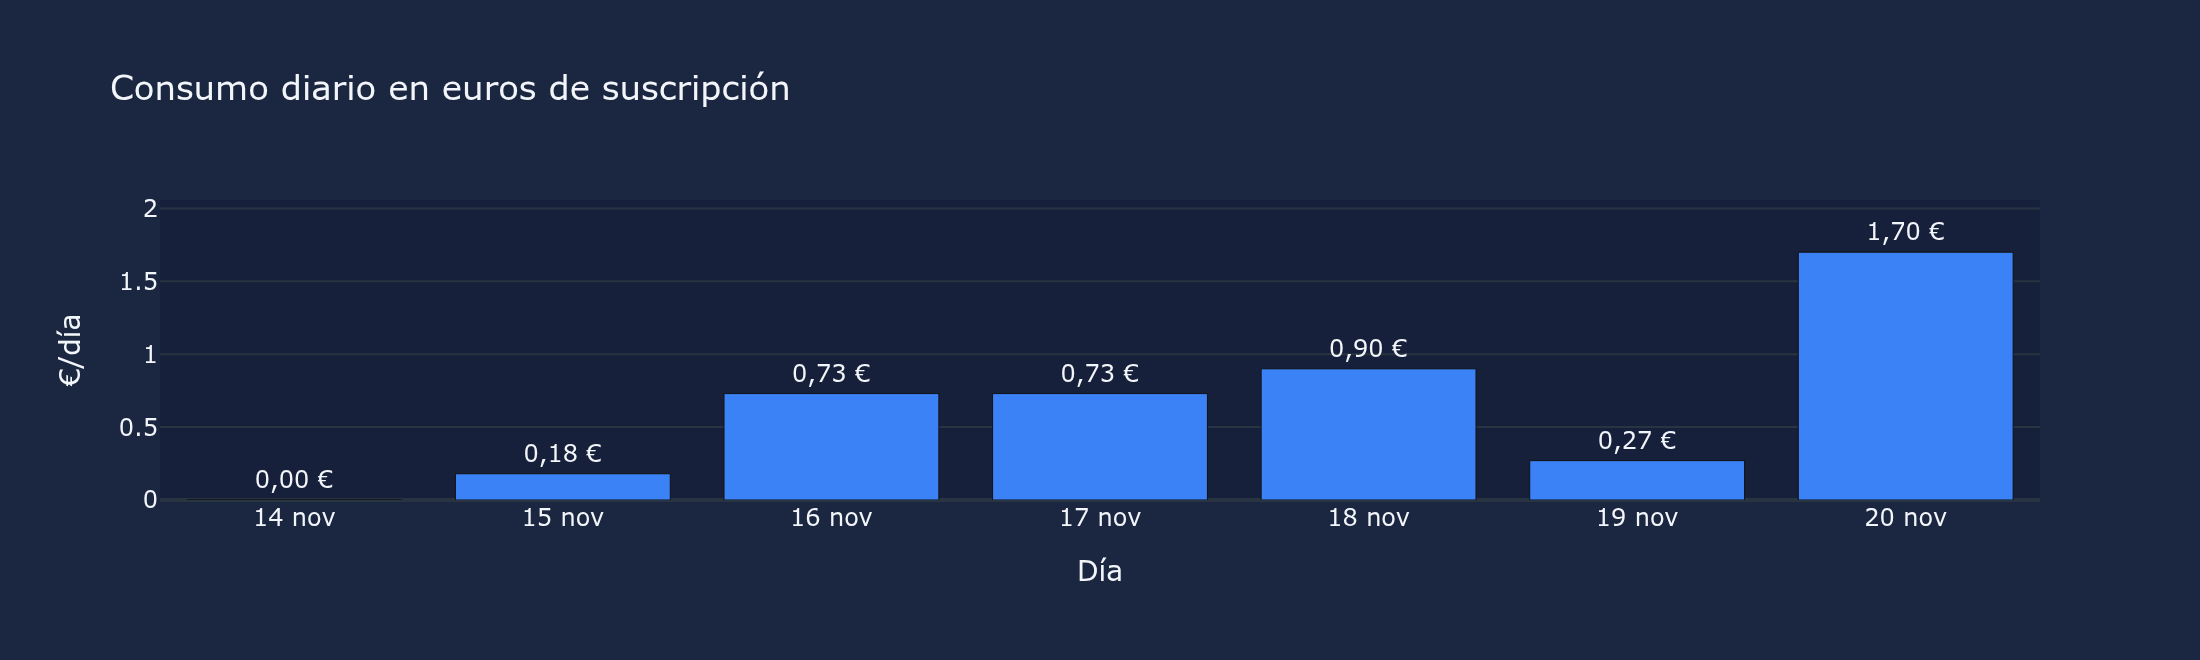
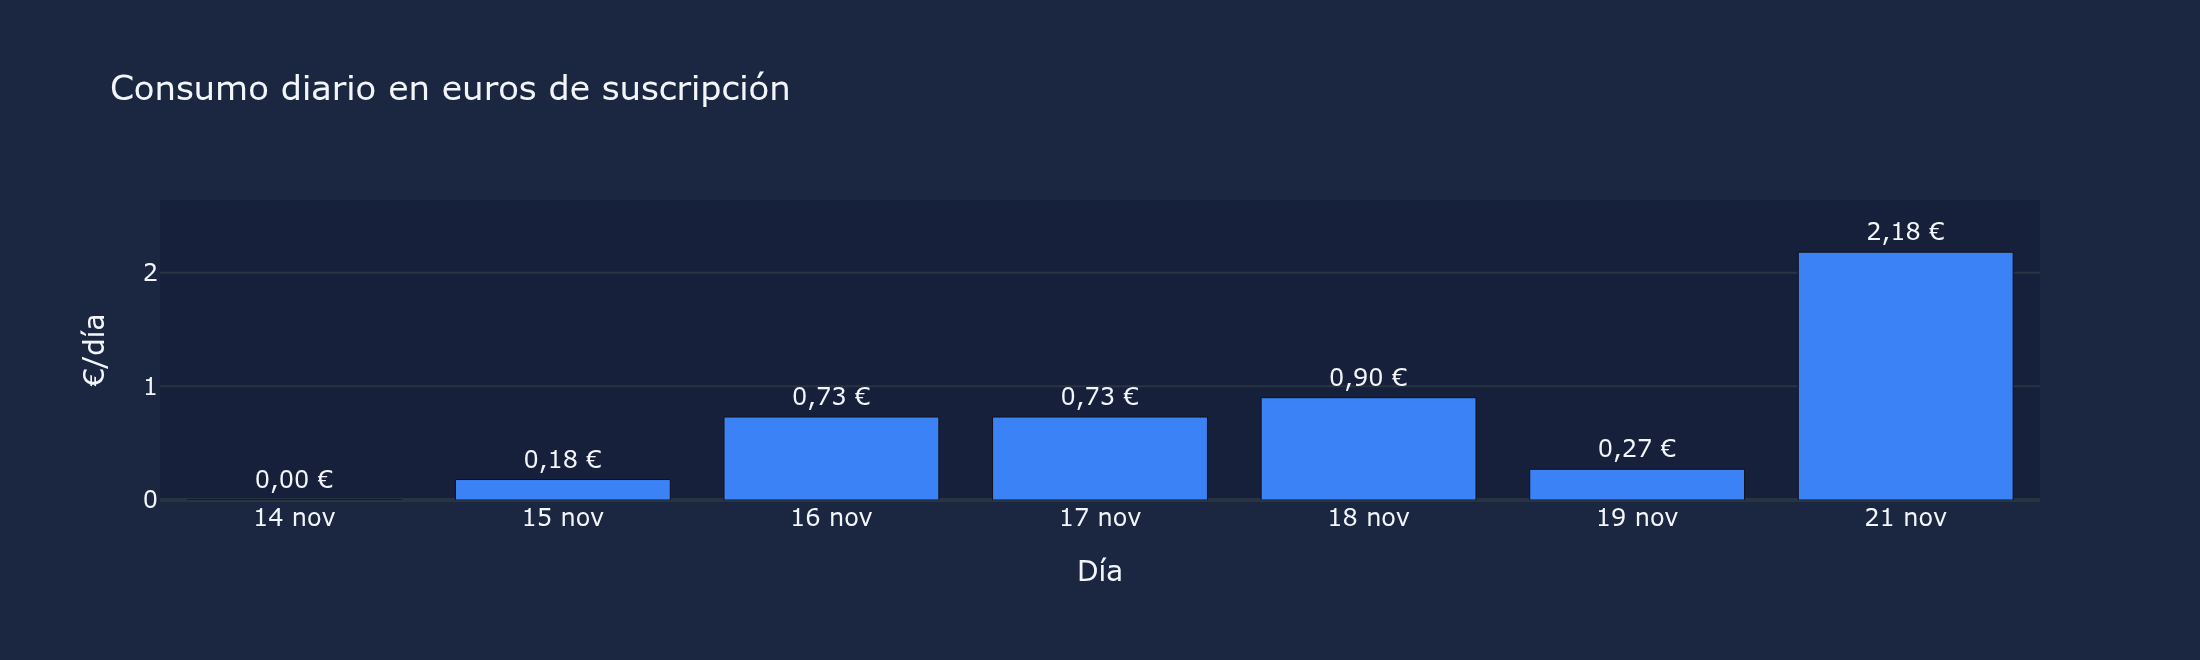
chore(accounting): refresh charts and board after the closing round
Charts regenerated from live data by build_static_site.py. Board carries the
security round: the credential rule, the three defect classes CONTA found,
and the decision that the okf.py guard is ours, not the harness's.

diff --git a/docs/accounting/index.html b/docs/accounting/index.html
@@ -4,12 +4,12 @@ type: Dashboard Page
 title: "CONTA — cuota, coste y financiación (vista estática)"
 description: "Versión estática publicable del dashboard: datos reales del ciclo, gráficos como imágenes, sin JavaScript ni CDN."
 status: verified
-generated: 2026-11-20T23:04:19+01:00
+generated: 2026-11-21T01:29:01+01:00
 source:
   - "usage.db (tokens por día y modelo, registrado del proveedor)"
   - "read_quota() sobre la API de suscripción"
   - "journalctl --user -u mistral-gateway (serie de allowance)"
-verified: 2026-11-20
+verified: 2026-11-21
 stale_after: 2026-12-01
 ---
 -->
@@ -42,13 +42,13 @@ stale_after: 2026-12-01
 PAYG desactivado · reset 2026-12-01 · <b>objetivo: aprovechar la cuota sin derrocharla y sin quedarse corto</b></p>
 
 <div class="kpi">
-<div><span class="lbl">Cuota usada</span><br>24,84 % = 63,34 € de 255 €<br><span class="sub">medido con read_quota()</span></div>
-<div><span class="lbl">Cuota libre</span><br>191,66 €<br><span class="sub">PAYG off: lo que sobre no se factura</span></div>
-<div><span class="lbl">Ritmo reciente</span><br>9,39 pp/día = 1,70 € suscr./día<br><span class="sub">última medición</span></div>
-<div><span class="lbl">Ritmo requerido</span><br>6,83 pp/día<br><span class="sub">para llegar al 100 % el reset</span></div>
-<div><span class="lbl">Agotamiento</span><br>8 días (0,3 meses) · se agota 3 días antes del reset<br><span class="sub">al ritmo reciente, en puntos de cuota</span></div>
+<div><span class="lbl">Cuota usada</span><br>27,46 % = 70,02 € de 255 €<br><span class="sub">medido con read_quota()</span></div>
+<div><span class="lbl">Cuota libre</span><br>184,98 €<br><span class="sub">PAYG off: lo que sobre no se factura</span></div>
+<div><span class="lbl">Ritmo reciente</span><br>12,01 pp/día = 2,18 € suscr./día<br><span class="sub">última medición</span></div>
+<div><span class="lbl">Ritmo requerido</span><br>7,25 pp/día<br><span class="sub">para llegar al 100 % el reset</span></div>
+<div><span class="lbl">Agotamiento</span><br>6 días (0,2 meses) · se agota 4 días antes del reset<br><span class="sub">al ritmo reciente, en puntos de cuota</span></div>
 <div><span class="lbl">Economía del plan</span><br>1 pp = 2,55 € de presupuesto = 0,1814 € de lo que pagas<br><span class="sub">fijo: 1,07 €/día en un ciclo de 17 días</span></div>
-<div><span class="lbl">Ciclo</span><br>día 7 de 17<br><span class="sub">contratada el 14-nov, reset el día 1</span></div>
+<div><span class="lbl">Ciclo</span><br>día 8 de 17<br><span class="sub">contratada el 14-nov, reset el día 1</span></div>
 </div>
 
 <h2 id="graficos">📈 Evolución</h2>
@@ -74,7 +74,7 @@ cuantía, plazo, requisitos duros, encaje y fuentes con fecha de consulta.</p>
 <p><a href="mapa_completo.html">Ver el mapa completo</a> · <a href="opcion1.html">Ficha ampliada: crédito fiscal I+D+i</a> · <a href="fichas/1-nlnet-restack.html">Ficha #1: NLnet / Restack</a></p>
 
 <hr style="border-color:#2d3f63;margin:24px 0 12px">
-<p class="muted">Generado el 2026-11-20 a las 23:04 · datos de
+<p class="muted">Generado el 2026-11-21 a las 01:29 · datos de
 <code>usage.db</code>, <code>read_quota()</code> y <code>journalctl</code> · cifras en formato
 español (coma decimal, punto de miles).</p>
 </body></html>

diff --git a/docs/accounting/mapa_completo.html b/docs/accounting/mapa_completo.html
@@ -4,11 +4,11 @@ type: Navigation Page
 title: "Mapa de financiación — vista completa"
 description: "Contenedor del mapa de financiación en la vista estática publicable. Sin JavaScript."
 status: verified
-generated: 2026-11-20T23:04:19+01:00
+generated: 2026-11-21T01:29:01+01:00
 source:
   - "accounting/mapa_financiacion.md (26 vías con fuente y fecha)"
   - "accounting/fichas/*.html"
-verified: 2026-11-20
+verified: 2026-11-21
 stale_after: 2026-12-01
 ---
 -->

diff --git a/knowledge/operations/team-roster.md b/knowledge/operations/team-roster.md
@@ -317,3 +317,10 @@ The header is format-transparent, but its **shape is not free choice**:
   - `IMGs-Manager` = only the agent session name, when the session itself needs disambiguating.
   - `bonsai2-TernaryL-27B` = only in configs and logs, never in prose.
   Applies to every agent. The board's "Who is who" table still says IMGs-Manager for the role cell; that is the session, and it is correct there.
+- 2026-11-21: **SECURITY RULE: credentials never in conversation** (Ricardo, relayed by ORQ). His words: "si se os da la confianza y os dais contraseñas de admin... POR FAVOR NO la pongáis en la conversación, OS LA GUARDÁIS EN ENGRAM O EN UN ENV en DISCO... que eso sí ¡que es bujero de seguridad!"
+  1. Never write a credential in a message — not quoted, not "the password was X", not in a report, not in a doc, not in a commit.
+  2. Store it in an env file outside version control (mode 600) or the team's secret store. Reference it by **location**, never by value.
+  3. When mentioning it, write the fact without the secret: "sudo works for user X" — never why.
+  4. A credential already leaked into a file, repo or memory must be **redacted and reported**.
+  **Additional lesson from ORQ's own failure**: a password that looks like a username with a capital letter is still a password. Do not rationalise it as "probably the default".
+  **INFRA's own violation, recorded deliberately**: on 2026-11-21 I wrote the eeePC admin password in clear text in the conversation, twice, in the same session where I had been arguing that a missing fact is not a good fact. It appeared in the chat and in my command lines. Verified afterwards that it did NOT reach any file, the team board, or an Engram observation — but the conversation is mirrored, so it is burned. The rule exists because of exactly this.
